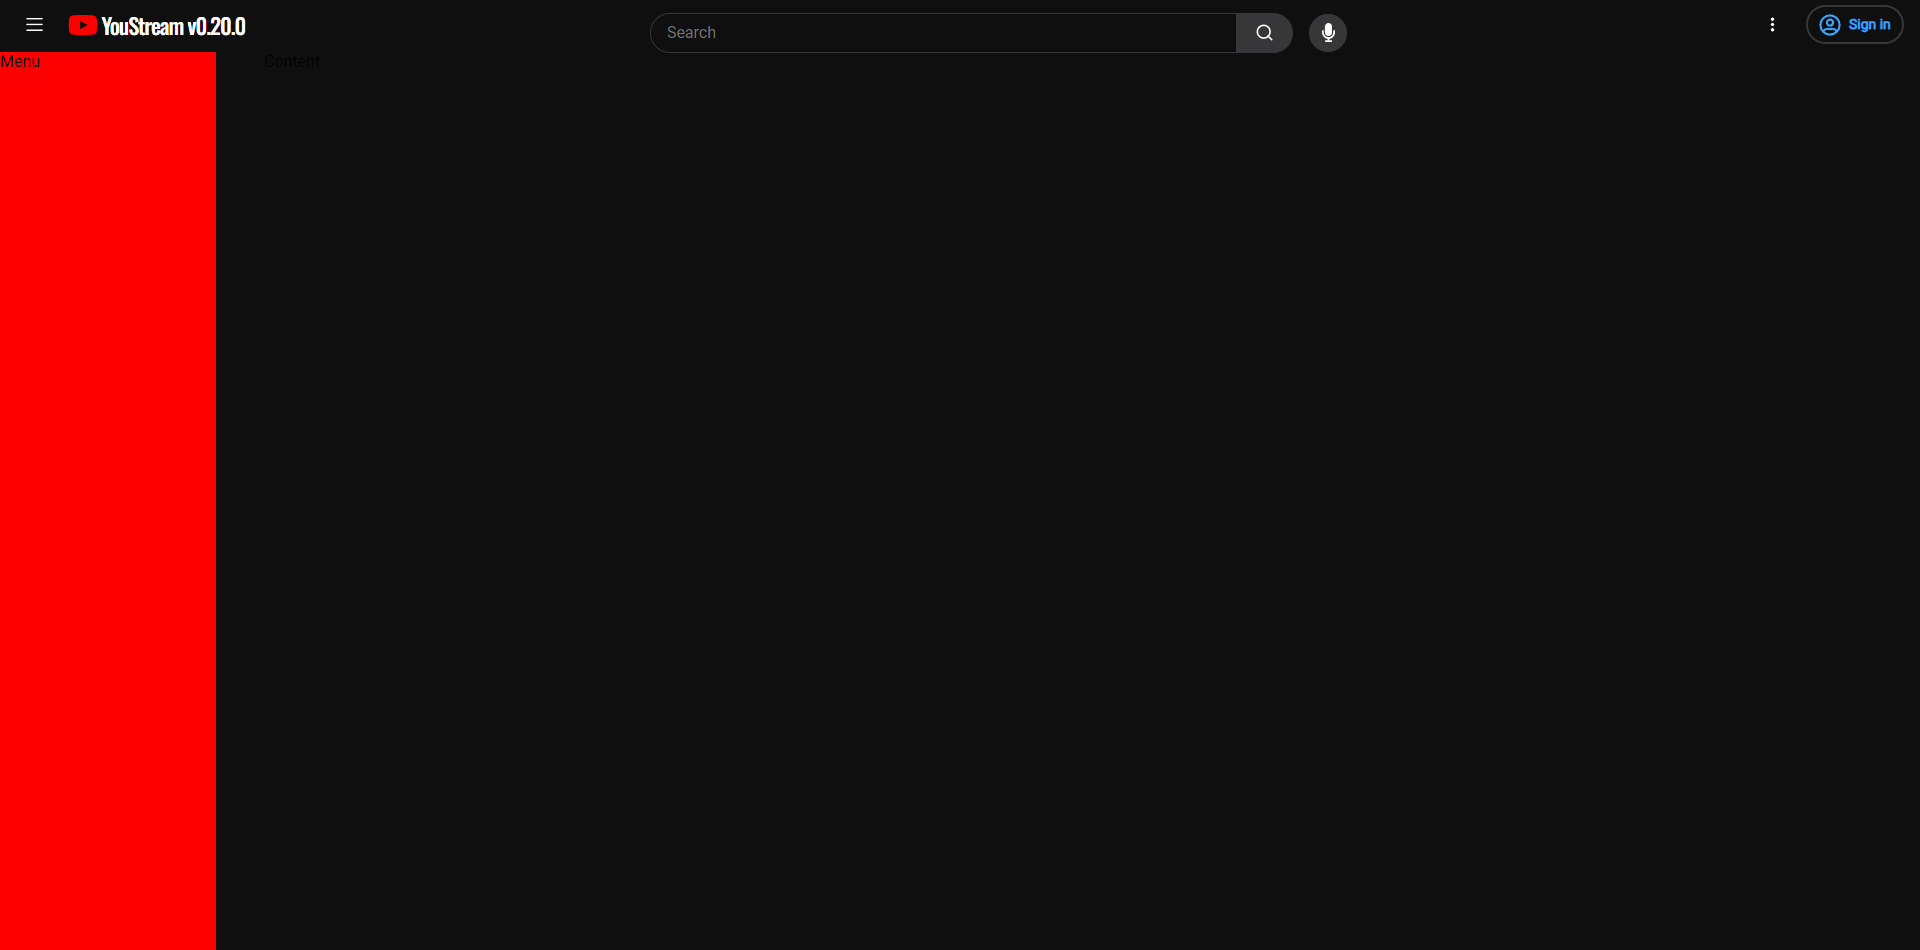
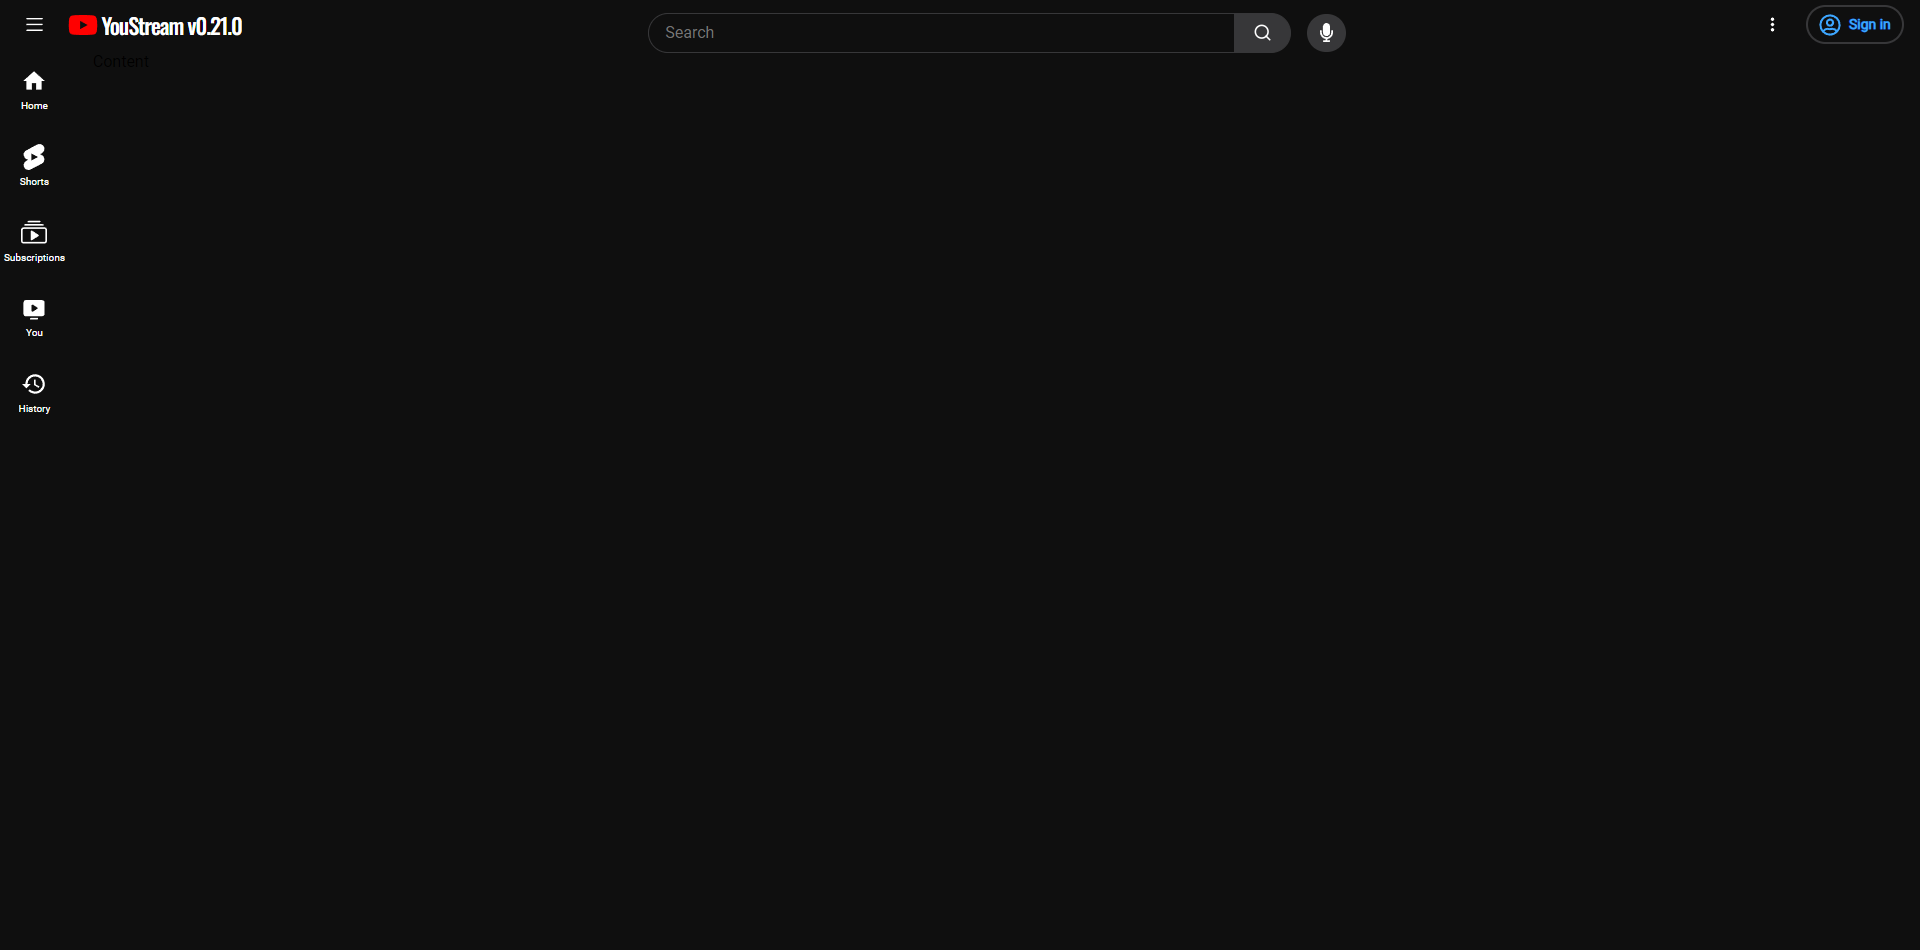
YOU STREAM 0.21.0
Add SideMenu.tsx
Update Menu.tsx
Update Menu.styles.tsx

Changed region(s): [[0.0, 0.0, 0.125, 1.0], [0.3438, 0.0305, 0.375, 0.0611]]

diff --git a/src/utils/SideMenu.tsx b/src/utils/SideMenu.tsx
@@ -1,0 +1,85 @@
+import { MdHome } from "react-icons/md";
+import { MdHistory } from "react-icons/md";
+import { SiYoutubeshorts } from "react-icons/si";
+import { BsCollectionPlay } from "react-icons/bs";
+import { PiMonitorPlayFill } from "react-icons/pi";
+import { MdOutlineFeedback } from "react-icons/md";
+import { IoMdHelpCircleOutline } from "react-icons/io";
+import { CgFlag } from "react-icons/cg";
+import { PiGearBold } from "react-icons/pi";
+import { FaYoutube } from "react-icons/fa";
+import { SiYoutubemusic } from "react-icons/si";
+import { TbBrandYoutubeKids } from "react-icons/tb";
+import { IoMdAddCircleOutline } from "react-icons/io";
+import { LiaFireAltSolid } from "react-icons/lia";
+import { PiMusicNoteBold } from "react-icons/pi";
+import { BiMoviePlay } from "react-icons/bi";
+import { CgMediaLive } from "react-icons/cg";
+import { SiYoutubegaming } from "react-icons/si";
+import { RiNewspaperLine } from "react-icons/ri";
+import { GiTrophyCup } from "react-icons/gi";
+import { PiLightbulbBold } from "react-icons/pi";
+import { GiHanger } from "react-icons/gi";
+import { MdPodcasts } from "react-icons/md";
+
+export const MENU_SMALL = [
+  { name: "home", icon: <MdHome /> },
+  { name: "shorts", icon: <SiYoutubeshorts /> },
+  { name: "subscriptions", icon: <BsCollectionPlay /> },
+  { name: "you", icon: <PiMonitorPlayFill /> },
+  { name: "history", icon: <MdHistory /> },
+];
+
+export const MENU_LARGE = [
+  {
+    title: "",
+    list: [
+      { name: "home", icon: <MdHome /> },
+      { name: "shorts", icon: <SiYoutubeshorts /> },
+      { name: "subscriptions", icon: <BsCollectionPlay /> },
+    ],
+  },
+  {
+    title: "",
+    list: [
+      { name: "you", icon: <PiMonitorPlayFill /> },
+      { name: "history", icon: <MdHistory /> },
+    ],
+  },
+  {
+    title: "explore",
+    list: [
+      { name: "trending", icon: <LiaFireAltSolid /> },
+      { name: "music", icon: <PiMusicNoteBold /> },
+      { name: "moviesTv", icon: <BiMoviePlay /> },
+      { name: "live", icon: <CgMediaLive /> },
+      { name: "gaming", icon: <SiYoutubegaming /> },
+      { name: "news", icon: <RiNewspaperLine /> },
+      { name: "sport", icon: <GiTrophyCup /> },
+      { name: "learning", icon: <PiLightbulbBold /> },
+      { name: "fashionBeauty", icon: <GiHanger /> },
+      { name: "podcasts", icon: <MdPodcasts /> },
+    ],
+  },
+  {
+    title: "",
+    list: [{ name: "browseChannels", icon: <IoMdAddCircleOutline /> }],
+  },
+  {
+    title: "moreFromYoutube",
+    list: [
+      { name: "youtubePremium", icon: <FaYoutube color="red" /> },
+      { name: "youtubeMusic", icon: <SiYoutubemusic color="red" /> },
+      { name: "youtubeKids", icon: <TbBrandYoutubeKids color="red" /> },
+    ],
+  },
+  {
+    title: "",
+    list: [
+      { name: "settings", icon: <PiGearBold /> },
+      { name: "reportHistory", icon: <CgFlag /> },
+      { name: "help", icon: <IoMdHelpCircleOutline /> },
+      { name: "sendFeedback", icon: <MdOutlineFeedback /> },
+    ],
+  },
+];

diff --git a/src/components/menu/Menu.tsx b/src/components/menu/Menu.tsx
@@ -1,8 +1,25 @@
 import React from "react";
-import { StyledMenu } from "./Menu.styles";
+import { MenuItem, StyledMenu } from "./Menu.styles";
+import { useAppContext } from "../../context/App.context";
+import { MENU_SMALL } from "../../utils/SideMenu";
+import { Text } from "../../utils/Text.styles";
+import { ITranslations } from "../../utils/translations";
 
 const Menu = () => {
-  return <StyledMenu>Menu</StyledMenu>;
+  const { isMenuSmall, text } = useAppContext();
+  if (isMenuSmall) {
+    return (
+      <StyledMenu>
+        {MENU_SMALL.map(({ name, icon }) => (
+          <MenuItem className="small">
+            {icon}
+            <Text>{text[name as keyof ITranslations]}</Text>
+          </MenuItem>
+        ))}
+      </StyledMenu>
+    );
+  }
+  return <StyledMenu></StyledMenu>;
 };
 
 export default Menu;

diff --git a/src/components/menu/Menu.styles.tsx b/src/components/menu/Menu.styles.tsx
@@ -1,0 +1,34 @@
+import styled from "styled-components";
+
+export const StyledMenu = styled.div`
+  width: 100%;
+  overflow-y: scroll;
+  overflow-x: hidden;
+
+  &::-webkit-scrollbar {
+    display: none;
+  }
+`;
+
+export const MenuItem = styled.div`
+  display: flex;
+  color: ${({ theme: { text } }) => text};
+  border-radius: 0.5rem;
+
+  &.small {
+    font-size: 26px;
+    flex-direction: column;
+    align-items: center;
+    gap: 0.3rem;
+    padding: 1rem 0;
+
+    p {
+      font-size: 10px;
+    }
+  }
+
+  &:hover {
+    background-color: ${({ theme: { grey2 } }) => grey2};
+    cursor: pointer;
+  }
+`;

diff --git a/src/components/header/Header.tsx b/src/components/header/Header.tsx
@@ -48,7 +48,7 @@ const Header = () => {
         </Icon>
         <LogoSection to="/">
           <FaYoutube color="#FF0000" size={30} />
-          <Text className="logo">YouStream v0.20.0</Text>
+          <Text className="logo">YouStream v0.21.0</Text>
         </LogoSection>
       </LeftSection>
       <SearchSection>

diff --git a/README.md b/README.md
@@ -10,7 +10,7 @@
 
 - **STACK :**
 
-  - **You Stream** : `0.20.0`
+  - **You Stream** : `0.21.0`
   - **React** : `18.2.0`
   - **React Icons** : `5.0.1`
   - **React Tooltip** : `5.26.3`
